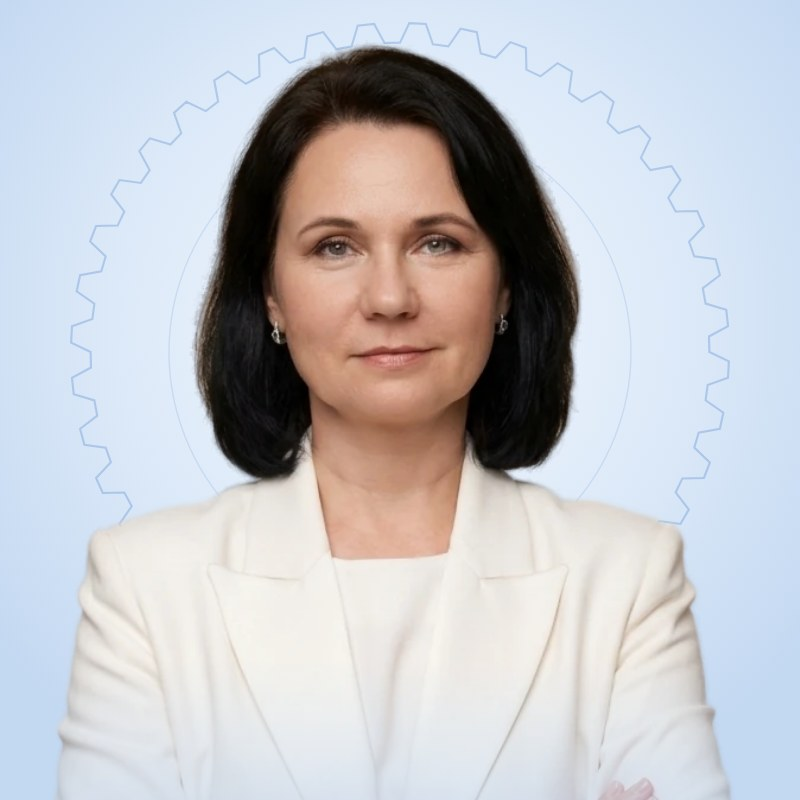
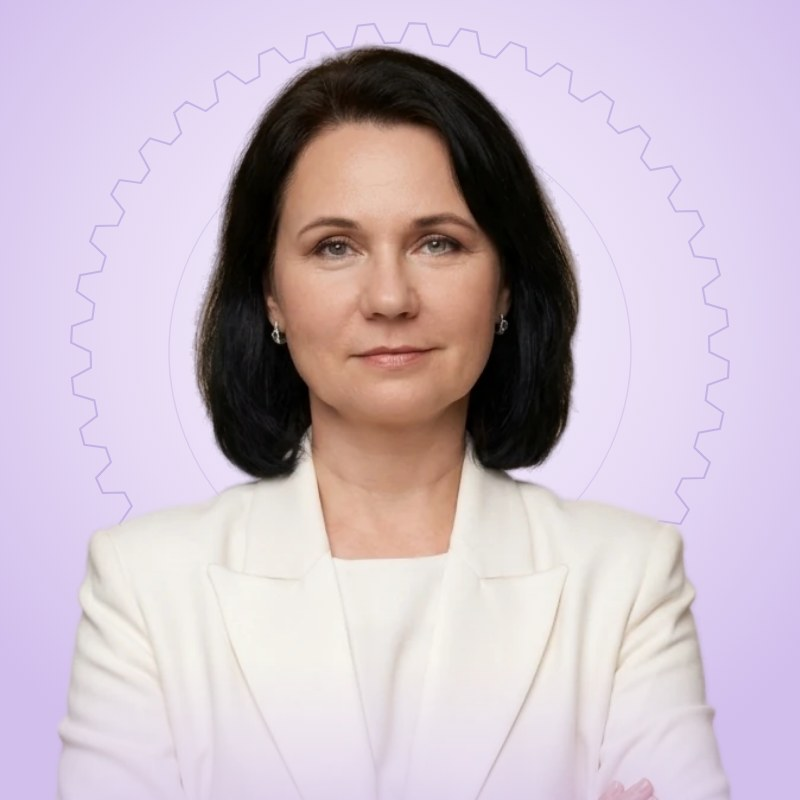
Сиреневая палитра: светло-сиреневые и тёмно-фиолетовые блоки через один
Claude-Session: https://claude.ai/code/session_01Lchu9cGtAJntDfj8Msrm4J

diff --git a/index.html b/index.html
@@ -33,15 +33,15 @@
 @font-face{font-family:"Playfair";src:url(playfair-500i.woff2) format("woff2");font-weight:500;font-style:italic;font-display:swap}
 
 :root{
-  --paper:#F5F8FC;--mist:#E8F0F9;--sky:#D6E5F5;--ice:#BFD6EF;--line:#CBD9EA;
-  --ink:#0E1E34;--ink-2:#2E4565;--ink-3:#5C7494;
-  --cobalt:#2559A0;--cobalt-2:#3A75C4;--cobalt-deep:#173F78;--glow:#7FB0EA;
-  --night:#0C1A2E;--night-2:#13253F;--night-line:#24395A;--on-night:#E6EEF8;--on-night-2:#A9BFDB;
+  --paper:#F3EEFA;--mist:#E9DFF5;--sky:#DCCDEF;--ice:#C8B3E5;--line:#D8CBEB;
+  --ink:#1F1435;--ink-2:#40315F;--ink-3:#6F608E;
+  --cobalt:#5E3EA3;--cobalt-2:#7B5BC3;--cobalt-deep:#3F2675;--glow:#C4ABF0;
+  --night:#24163F;--night-2:#301F52;--night-line:#46356F;--on-night:#F2EBFB;--on-night-2:#BCAADB;
   --warm:#C98A4B;
   --sans:"Onest",system-ui,-apple-system,"Segoe UI",sans-serif;
   --accent:"Playfair",Georgia,serif;
   --ease:cubic-bezier(.23,1,.32,1);
-  --shadow:0 30px 60px -30px rgba(14,30,52,.35);
+  --shadow:0 30px 60px -30px rgba(36,22,63,.35);
   --wrap:1240px;
 }
 *{box-sizing:border-box}
@@ -69,7 +69,7 @@ section{position:relative}
 .line-mask>span{display:inline-block}
 
 /* buttons */
-.btn{--bx:0px;--by:0px;position:relative;display:inline-flex;align-items:center;gap:14px;height:62px;padding:0 30px;border-radius:999px;background:var(--cobalt);color:#fff;font:600 17px/1 var(--sans);letter-spacing:-.005em;text-decoration:none;border:0;cursor:pointer;overflow:hidden;isolation:isolate;transform:translate(var(--bx),var(--by));transition:transform .45s var(--ease),box-shadow .3s var(--ease);box-shadow:0 18px 34px -16px rgba(37,89,160,.8)}
+.btn{--bx:0px;--by:0px;position:relative;display:inline-flex;align-items:center;gap:14px;height:62px;padding:0 30px;border-radius:999px;background:var(--cobalt);color:#fff;font:600 17px/1 var(--sans);letter-spacing:-.005em;text-decoration:none;border:0;cursor:pointer;overflow:hidden;isolation:isolate;transform:translate(var(--bx),var(--by));transition:transform .45s var(--ease),box-shadow .3s var(--ease);box-shadow:0 18px 34px -16px rgba(87,34,163,.8)}
 .btn::before{content:"";position:absolute;inset:0;background:var(--cobalt-deep);border-radius:inherit;transform:scaleX(0);transform-origin:left;transition:transform .5s var(--ease);z-index:-1}
 .btn:hover{color:#fff}
 .btn:active{transform:translate(var(--bx),var(--by)) scale(.97)}
@@ -89,7 +89,7 @@ section{position:relative}
 
 /* header */
 header.top{position:fixed;inset:0 0 auto 0;z-index:40;transition:transform .5s var(--ease),background .3s,box-shadow .3s}
-header.top.solid{background:rgba(245,248,252,.82);backdrop-filter:blur(16px) saturate(1.5);-webkit-backdrop-filter:blur(16px) saturate(1.5);box-shadow:0 1px 0 var(--line)}
+header.top.solid{background:rgba(248,245,252,.82);backdrop-filter:blur(16px) saturate(1.5);-webkit-backdrop-filter:blur(16px) saturate(1.5);box-shadow:0 1px 0 var(--line)}
 header.top.hide{transform:translateY(-100%)}
 .top .wrap{display:flex;align-items:center;justify-content:space-between;height:80px}
 .brand{white-space:nowrap;display:flex;align-items:center;gap:12px;font-weight:700;font-size:19px;letter-spacing:-.02em;color:var(--ink);text-decoration:none}
@@ -112,8 +112,8 @@ nav.menu a.btn,nav.menu a.btn:hover{color:#fff}
 
 /* HERO */
 .hero{min-height:100svh;padding:120px 0 0;overflow:hidden;background:
-  radial-gradient(1200px 700px at 78% 40%,#D3E4F7 0%,rgba(211,228,247,0) 60%),
-  radial-gradient(800px 600px at 10% 90%,#E3EDF9 0%,rgba(227,237,249,0) 70%),var(--paper)}
+  radial-gradient(1200px 700px at 78% 40%,#E0D2F8 0%,rgba(224,210,248,0) 60%),
+  radial-gradient(800px 600px at 10% 90%,#EBE2FA 0%,rgba(235,226,250,0) 70%),var(--paper)}
 .hero .wrap{display:grid;grid-template-columns:1.18fr .82fr;gap:24px;align-items:end;min-height:calc(100svh - 120px)}
 .hero-copy{padding-bottom:110px;position:relative;z-index:3}
 .hero h1{font-size:clamp(44px,5.7vw,94px);margin-bottom:30px}
@@ -121,15 +121,15 @@ nav.menu a.btn,nav.menu a.btn:hover{color:#fff}
 .hero .lead{margin-bottom:40px}
 .cta-row{display:flex;flex-wrap:wrap;gap:18px 26px;align-items:center}
 .creds{margin-top:48px;display:flex;flex-wrap:wrap;gap:10px}
-.chip{display:inline-flex;align-items:center;gap:10px;padding:10px 16px;border-radius:999px;background:rgba(255,255,255,.7);border:1px solid rgba(203,217,234,.9);font-size:15px;color:var(--ink-2);backdrop-filter:blur(8px);-webkit-backdrop-filter:blur(8px)}
+.chip{display:inline-flex;align-items:center;gap:10px;padding:10px 16px;border-radius:999px;background:rgba(255,255,255,.7);border:1px solid rgba(215,202,235,.9);font-size:15px;color:var(--ink-2);backdrop-filter:blur(8px);-webkit-backdrop-filter:blur(8px)}
 .chip b{color:var(--ink);font-weight:700}
 .visual{position:relative;height:100%;min-height:640px;align-self:stretch}
-.disc{position:absolute;left:50%;bottom:-18%;width:min(640px,110%);aspect-ratio:1;transform:translateX(-50%);border-radius:50%;background:radial-gradient(circle at 40% 35%,#FFFFFF 0%,#E2EDF9 45%,#C7DBF1 100%);box-shadow:inset 0 -30px 80px rgba(37,89,160,.15)}
+.disc{position:absolute;left:50%;bottom:-18%;width:min(640px,110%);aspect-ratio:1;transform:translateX(-50%);border-radius:50%;background:radial-gradient(circle at 40% 35%,#FFFFFF 0%,#EAE1FA 45%,#D6C6F2 100%);box-shadow:inset 0 -30px 80px rgba(87,34,163,.15)}
 .big-gear{position:absolute;left:50%;bottom:-36%;width:min(980px,170%);transform:translateX(-50%);opacity:.9;pointer-events:none}
 .big-gear .g{fill:none;stroke:var(--cobalt-2);stroke-width:1.2;opacity:.55;vector-effect:non-scaling-stroke}
-.portrait{position:absolute;left:50%;bottom:0;height:min(96%,820px);transform:translateX(-50%);z-index:2;filter:drop-shadow(0 30px 40px rgba(14,30,52,.18))}
+.portrait{position:absolute;left:50%;bottom:0;height:min(96%,820px);transform:translateX(-50%);z-index:2;filter:drop-shadow(0 30px 40px rgba(29,13,53,.18))}
 .portrait img{height:100%;width:auto;max-width:none}
-.orbit{position:absolute;z-index:3;display:flex;align-items:center;gap:10px;padding:12px 18px 12px 12px;border-radius:999px;background:rgba(255,255,255,.82);box-shadow:0 18px 40px -20px rgba(14,30,52,.4);font-weight:600;font-size:15px;color:var(--ink);backdrop-filter:blur(10px);-webkit-backdrop-filter:blur(10px);white-space:nowrap}
+.orbit{position:absolute;z-index:3;display:flex;align-items:center;gap:10px;padding:12px 18px 12px 12px;border-radius:999px;background:rgba(255,255,255,.82);box-shadow:0 18px 40px -20px rgba(29,13,53,.4);font-weight:600;font-size:15px;color:var(--ink);backdrop-filter:blur(10px);-webkit-backdrop-filter:blur(10px);white-space:nowrap}
 .orbit svg{width:26px;height:26px;color:var(--cobalt)}
 .orbit.o1{left:-2%;top:24%}.orbit.o2{right:-4%;top:14%}.orbit.o3{right:-2%;top:52%}.orbit.o4{left:2%;top:62%}
 .orbit.o4{background:var(--ink);color:#fff}.orbit.o4 svg{color:var(--warm)}
@@ -165,17 +165,17 @@ nav.menu a.btn,nav.menu a.btn:hover{color:#fff}
 .mech-top .lead{color:var(--on-night-2)}
 .train{margin-top:60px;position:relative}
 .train svg{width:100%;height:auto;overflow:visible}
-.gear-shape{fill:url(#gmBlue);stroke:#8FBDF0;stroke-opacity:.55;stroke-width:1.3;vector-effect:non-scaling-stroke;stroke-linejoin:round}
-.gear-rim{fill:none;stroke:#05101F;stroke-opacity:.55;stroke-width:3;vector-effect:non-scaling-stroke}
-.gear-rim2{fill:none;stroke:#BFD8F5;stroke-opacity:.14;stroke-width:1.5;vector-effect:non-scaling-stroke}
-.gear-hole{fill:url(#gmHole);stroke:#8FBDF0;stroke-opacity:.28;stroke-width:1;vector-effect:non-scaling-stroke}
-.gear-hub{fill:url(#gmHub);stroke:#BFD8F5;stroke-opacity:.5;stroke-width:1.2;vector-effect:non-scaling-stroke}
-.gear-bore{fill:#06101E;stroke:#000;stroke-opacity:.4;stroke-width:1;vector-effect:non-scaling-stroke}
-.gear-bolt{fill:#C9DDF5;fill-opacity:.75}
+.gear-shape{fill:url(#gmBlue);stroke:#B18DF2;stroke-opacity:.55;stroke-width:1.3;vector-effect:non-scaling-stroke;stroke-linejoin:round}
+.gear-rim{fill:none;stroke:#100420;stroke-opacity:.55;stroke-width:3;vector-effect:non-scaling-stroke}
+.gear-rim2{fill:none;stroke:#D3BEF6;stroke-opacity:.14;stroke-width:1.5;vector-effect:non-scaling-stroke}
+.gear-hole{fill:url(#gmHole);stroke:#B18DF2;stroke-opacity:.28;stroke-width:1;vector-effect:non-scaling-stroke}
+.gear-hub{fill:url(#gmHub);stroke:#D3BEF6;stroke-opacity:.5;stroke-width:1.2;vector-effect:non-scaling-stroke}
+.gear-bore{fill:#10051F;stroke:#000;stroke-opacity:.4;stroke-width:1;vector-effect:non-scaling-stroke}
+.gear-bolt{fill:#D9C8F6;fill-opacity:.75}
 .gear-light{fill:url(#gmLight);pointer-events:none}
 .gear-glint{fill:none;stroke:#fff;stroke-opacity:.22;stroke-width:3.5;stroke-linecap:round;vector-effect:non-scaling-stroke;pointer-events:none}
 .gear-shadow{fill:url(#gmShadow);pointer-events:none}
-.gear-side{fill:url(#gmSide);stroke:#020812;stroke-opacity:.6;stroke-width:1;vector-effect:non-scaling-stroke;stroke-linejoin:round}
+.gear-side{fill:url(#gmSide);stroke:#090212;stroke-opacity:.6;stroke-width:1;vector-effect:non-scaling-stroke;stroke-linejoin:round}
 .gear.stopped .gear-side{fill:url(#gmSideDim)}
 .gear.stuck .gear-side{fill:url(#gmSideWarm)}
 .gear{cursor:pointer;outline:none}
@@ -188,7 +188,7 @@ nav.menu a.btn,nav.menu a.btn:hover{color:#fff}
 .gear.stuck .gear-hub{fill:url(#gmHubWarm)}
 .gear.stuck .gear-hole{stroke:#F0C79A}
 .glabel{font:600 21px var(--sans);fill:var(--on-night);text-anchor:middle;pointer-events:none;letter-spacing:-.01em}
-.glabel.dim{fill:#7F96B6}
+.glabel.dim{fill:#967EB7}
 .glabel.warm{fill:#F0C79A}
 .gtag{fill:var(--night);stroke:var(--night-line)}
 .mech-panel{margin-top:48px;display:grid;grid-template-columns:1.2fr .8fr;gap:40px;align-items:start;border-top:1px solid var(--night-line);padding-top:40px}
@@ -213,14 +213,14 @@ nav.menu a.btn,nav.menu a.btn:hover{color:#fff}
 .scard .num{font-size:140px;font-weight:800;letter-spacing:-.06em;line-height:.8;color:var(--sky)}
 .scard h3{font-size:36px;margin:22px 0 14px}
 .scard p{color:var(--ink-2);font-size:18px;margin:0}
-.scard.dark{background:var(--cobalt);color:#fff}.scard.dark .num{color:rgba(255,255,255,.22)}.scard.dark p{color:#DCE8F7}
+.scard.dark{background:var(--cobalt);color:#fff}.scard.dark .num{color:rgba(255,255,255,.22)}.scard.dark p{color:#E6DBF8}
 .hprogress{position:absolute;left:max(40px,calc((100vw - var(--wrap))/2 + 40px));right:40px;bottom:80px;height:2px;background:var(--line);border-radius:2px;overflow:hidden}
 .hprogress i{position:absolute;inset:0;background:var(--cobalt);transform-origin:left;transform:scaleX(0)}
 
 /* cinema */
 .cinema{background:linear-gradient(180deg,var(--paper),var(--mist));padding:150px 0}
 .cinema-head{display:grid;grid-template-columns:1fr 1fr;gap:48px;align-items:end}
-.screen{margin-top:56px;border-radius:28px;overflow:hidden;background:var(--sky);box-shadow:0 50px 90px -40px rgba(14,30,52,.5);aspect-ratio:16/9;position:relative}
+.screen{margin-top:56px;border-radius:28px;overflow:hidden;background:var(--sky);box-shadow:0 50px 90px -40px rgba(29,13,53,.5);aspect-ratio:16/9;position:relative}
 .screen video{width:100%;height:100%;object-fit:cover;background:var(--sky)}
 .thumbs{margin-top:22px;display:grid;grid-template-columns:repeat(4,1fr);gap:18px}
 .thumb{all:unset;cursor:pointer;display:flex;flex-direction:column;gap:10px;border-radius:18px;padding:8px;transition:background .3s var(--ease),transform .4s var(--ease)}
@@ -230,7 +230,7 @@ nav.menu a.btn,nav.menu a.btn:hover{color:#fff}
 .thumb .ti{display:flex;gap:10px;font-size:15px;line-height:1.35;font-weight:600;color:var(--ink);padding:0 4px}
 .thumb .ti span{color:var(--cobalt);font-variant-numeric:tabular-nums}
 .thumb .ti em{margin-left:auto;font-style:normal;font-weight:500;color:var(--ink-3);font-variant-numeric:tabular-nums}
-.thumb[aria-current="true"]{background:#fff;box-shadow:0 20px 40px -26px rgba(14,30,52,.45)}
+.thumb[aria-current="true"]{background:#fff;box-shadow:0 20px 40px -26px rgba(29,13,53,.45)}
 @media (hover:hover){.thumb:hover{transform:translateY(-4px)}.thumb:hover img{transform:scale(1.05)}.thumb:hover video{opacity:1}}
 .thumb:focus-visible{outline:2px solid var(--cobalt-2)}
 
@@ -274,11 +274,11 @@ nav.menu a.btn,nav.menu a.btn:hover{color:#fff}
 .about .wrap{position:relative;display:grid;grid-template-columns:.9fr 1.1fr;gap:56px;align-items:end}
 .about-vis{position:relative;height:720px}
 .about-vis .disc{bottom:-30%;width:120%}
-.about-vis img{position:absolute;left:50%;bottom:0;height:96%;width:auto;max-width:none;transform:translateX(-50%);filter:drop-shadow(0 30px 40px rgba(14,30,52,.18))}
+.about-vis img{position:absolute;left:50%;bottom:0;height:96%;width:auto;max-width:none;transform:translateX(-50%);filter:drop-shadow(0 30px 40px rgba(29,13,53,.18))}
 .about-copy{padding-bottom:110px}
 .about-copy p{color:var(--ink-2);max-width:56ch}
 .facts{display:grid;grid-template-columns:repeat(2,1fr);gap:14px;margin:30px 0}
-.fact{background:#fff;border-radius:18px;padding:18px 20px;font-size:16px;line-height:1.4;color:var(--ink-2);box-shadow:0 14px 30px -24px rgba(14,30,52,.5)}
+.fact{background:#fff;border-radius:18px;padding:18px 20px;font-size:16px;line-height:1.4;color:var(--ink-2);box-shadow:0 14px 30px -24px rgba(29,13,53,.5)}
 .fact b{display:block;color:var(--ink);font-size:18px;margin-bottom:2px}
 blockquote{margin:30px 0 0;font-family:var(--accent);font-style:italic;font-size:clamp(28px,2.8vw,40px);line-height:1.2;color:var(--cobalt)}
 blockquote cite{display:block;margin-top:10px;font:500 15px var(--sans);font-style:normal;color:var(--ink-3)}
@@ -322,7 +322,7 @@ blockquote cite{display:block;margin-top:10px;font:500 15px var(--sans);font-sty
 .contacts .k{display:block;font-size:13px;color:var(--on-night-2);margin-bottom:2px}
 .final-gear{position:absolute;right:-180px;top:-140px;width:640px;opacity:.18;pointer-events:none}
 .final-gear .g{fill:none;stroke:var(--glow);stroke-width:1.4;vector-effect:non-scaling-stroke}
-footer{position:relative;z-index:2;margin-top:110px;padding-top:28px;border-top:1px solid var(--night-line);display:flex;justify-content:space-between;flex-wrap:wrap;gap:12px;font-size:13px;color:#8DA4C2}
+footer{position:relative;z-index:2;margin-top:110px;padding-top:28px;border-top:1px solid var(--night-line);display:flex;justify-content:space-between;flex-wrap:wrap;gap:12px;font-size:13px;color:#A28CC3}
 
 
 /* team outsourcing */
@@ -340,7 +340,7 @@ footer{position:relative;z-index:2;margin-top:110px;padding-top:28px;border-top:
 .org svg.links{position:absolute;inset:0;width:100%;height:100%;overflow:visible}
 .org svg.links line{stroke:var(--ice);stroke-width:2;stroke-dasharray:6 7}
 .org svg.links line.on{stroke:var(--cobalt);stroke-dasharray:none}
-.core{position:absolute;left:50%;top:50%;width:30%;aspect-ratio:1;transform:translate(-50%,-50%);border-radius:50%;background:radial-gradient(circle at 35% 30%,#1D3A63,var(--night) 70%);color:#fff;display:flex;flex-direction:column;justify-content:center;align-items:center;z-index:1;text-align:center;font-weight:700;font-size:clamp(15px,1.4vw,19px);line-height:1.25;box-shadow:0 30px 60px -30px rgba(14,30,52,.6);padding:12px}
+.core{position:absolute;left:50%;top:50%;width:30%;aspect-ratio:1;transform:translate(-50%,-50%);border-radius:50%;background:radial-gradient(circle at 35% 30%,#3A1B65,var(--night) 70%);color:#fff;display:flex;flex-direction:column;justify-content:center;align-items:center;z-index:1;text-align:center;font-weight:700;font-size:clamp(15px,1.4vw,19px);line-height:1.25;box-shadow:0 30px 60px -30px rgba(29,13,53,.6);padding:12px}
 .core small{display:block;font-weight:500;color:var(--on-night-2);font-size:max(.72em,13px);line-height:1.3;margin-top:6px;max-width:82%}
 .seat{position:absolute;width:35%;z-index:2;transform:translate(-50%,-50%);background:rgba(255,255,255,.55);border:1.5px dashed var(--ice);border-radius:20px;padding:14px 14px 14px 12px;display:flex;gap:12px;align-items:center;transition:background .6s var(--ease),border-color .6s var(--ease),box-shadow .6s var(--ease)}
 .seat .av{flex:none;width:46px;height:46px;border-radius:50%;background:var(--mist) center/cover;border:2px dashed var(--ice);transition:border-color .6s,transform .7s var(--ease)}
@@ -348,7 +348,7 @@ footer{position:relative;z-index:2;margin-top:110px;padding-top:28px;border-top:
 .seat b{display:block;font-size:15px;letter-spacing:-.01em;line-height:1.2;color:var(--ink)}
 .seat span{display:block;font-size:13px;line-height:1.35;color:var(--ink-3);margin-top:2px}
 .seat .who{color:var(--cobalt);font-weight:600;opacity:0;transition:opacity .5s .2s}
-.seat.filled{background:#fff;border:1.5px solid transparent;box-shadow:0 20px 40px -24px rgba(14,30,52,.45)}
+.seat.filled{background:#fff;border:1.5px solid transparent;box-shadow:0 20px 40px -24px rgba(29,13,53,.45)}
 .seat.filled .av{border:2px solid var(--cobalt)}
 .seat.filled .av img{opacity:1;transform:none}
 .seat.filled .who{opacity:1}
@@ -360,18 +360,18 @@ footer{position:relative;z-index:2;margin-top:110px;padding-top:28px;border-top:
 .aud-head{display:grid;grid-template-columns:1fr 1fr;gap:48px;align-items:end}
 .panels{margin-top:60px;display:flex;gap:18px;height:540px}
 .pan{position:relative;flex:1;min-width:0;border-radius:28px;overflow:hidden;padding:36px;display:flex;flex-direction:column;justify-content:flex-end;color:#fff;cursor:default;transition:flex-grow .8s var(--ease)}
-.pan:nth-child(1){background:linear-gradient(160deg,#3A75C4,#173F78)}
-.pan:nth-child(2){background:linear-gradient(160deg,#21406B,#0C1A2E)}
-.pan:nth-child(3){background:linear-gradient(160deg,#5B8FD0,#2559A0)}
+.pan:nth-child(1){background:linear-gradient(160deg,#7137C7,#3F157A)}
+.pan:nth-child(2){background:linear-gradient(160deg,#3F1F6D,#1A0B2F)}
+.pan:nth-child(3){background:linear-gradient(160deg,#8858D3,#5722A3)}
 @media (hover:hover){.panels:hover .pan{flex-grow:.8}.panels .pan:hover{flex-grow:1.9}}
 .pan .bg-gear{position:absolute;right:-90px;top:-90px;width:320px;opacity:.18;transition:transform 1.4s var(--ease)}
 .pan .bg-gear path{fill:none;stroke:#fff;stroke-width:2}
 @media (hover:hover){.pan:hover .bg-gear{transform:rotate(60deg)}}
 .pan .tag{position:relative;align-self:flex-start;margin-bottom:auto;font-size:14px;font-weight:600;padding:7px 12px;border-radius:999px;background:rgba(255,255,255,.16)}
 .pan h3{font-size:clamp(28px,2.6vw,38px);color:#fff;margin-bottom:12px}
-.pan .who{font-size:16px;color:#DCE8F7;margin-bottom:14px;font-weight:600}
+.pan .who{font-size:16px;color:#E6DBF8;margin-bottom:14px;font-weight:600}
 .pan h3{margin-top:28px}
-.pan p{font-size:16px;line-height:1.5;color:#DCE8F7;margin:0;max-width:46ch}
+.pan p{font-size:16px;line-height:1.5;color:#E6DBF8;margin:0;max-width:46ch}
 .pan .ex{font-variant-numeric:lining-nums;margin-top:16px;font-family:var(--accent);font-style:italic;font-size:19px;color:#fff;opacity:.92}
 @media (max-width:1240px){.team .wrap{grid-template-columns:1fr}.org{max-width:600px}}
 @media (max-width:1020px){
@@ -396,12 +396,12 @@ footer{position:relative;z-index:2;margin-top:110px;padding-top:28px;border-top:
 .gl{margin:40px 0 0;padding:0;list-style:none;counter-reset:g}
 .gl li{display:grid;grid-template-columns:56px 1fr;gap:18px;padding:22px 0;border-top:1px solid var(--line)}
 .gl li:last-child{border-bottom:1px solid var(--line)}
-.gl .n{align-self:start;flex:none;width:46px;height:46px;min-width:46px;padding:0;gap:0;border:0;grid-template-columns:none;line-height:1;border-radius:50%;box-shadow:0 10px 22px -12px rgba(37,89,160,.7);background:var(--cobalt);color:#fff;display:grid;place-items:center;font-weight:800;font-size:18px}
+.gl .n{align-self:start;flex:none;width:46px;height:46px;min-width:46px;padding:0;gap:0;border:0;grid-template-columns:none;line-height:1;border-radius:50%;box-shadow:0 10px 22px -12px rgba(87,34,163,.7);background:var(--cobalt);color:#fff;display:grid;place-items:center;font-weight:800;font-size:18px}
 .gl b{display:block;font-size:21px;letter-spacing:-.015em;margin-bottom:4px}
 .gl span{color:var(--ink-2);font-size:17px;line-height:1.5}
 .notfor{margin-top:26px;font-size:16px;color:var(--ink-3)}
 .notfor b{color:var(--ink-2)}
-.mapdoc{position:relative;background:#fff;border-radius:24px;padding:36px 36px 30px;box-shadow:0 50px 90px -40px rgba(14,30,52,.45);transform:rotate(-1.6deg)}
+.mapdoc{position:relative;background:#fff;border-radius:24px;padding:36px 36px 30px;box-shadow:0 50px 90px -40px rgba(29,13,53,.45);transform:rotate(-1.6deg)}
 .mapdoc .hd{display:flex;justify-content:space-between;align-items:flex-start;gap:16px;padding-bottom:18px;border-bottom:1px solid var(--line)}
 .mapdoc .hd b{font-size:24px;letter-spacing:-.02em}
 .mapdoc .hd small{display:block;font-size:14px;color:var(--ink-3);margin-top:2px}
@@ -422,18 +422,18 @@ footer{position:relative;z-index:2;margin-top:110px;padding-top:28px;border-top:
 .sig{margin-top:18px;display:flex;justify-content:space-between;align-items:center;font-size:14px;color:var(--ink-3);padding-right:150px;min-height:56px}
 .mapdoc{margin-bottom:40px}
 .sig i{font-family:var(--accent);font-size:22px;color:var(--ink)}
-.stamp{position:absolute;right:10px;bottom:-54px;width:176px;height:176px;z-index:6;pointer-events:none;color:#1F4F96;mix-blend-mode:multiply;opacity:0;transform:rotate(-10deg)}
+.stamp{position:absolute;right:10px;bottom:-54px;width:176px;height:176px;z-index:6;pointer-events:none;color:#521C99;mix-blend-mode:multiply;opacity:0;transform:rotate(-10deg)}
 .stamp svg{display:block;width:100%;height:100%;overflow:visible}
-.stamp .burst{position:absolute;inset:-6%;border-radius:50%;border:3px solid #2559A0;opacity:0;pointer-events:none}
-.stamp .drop{position:absolute;left:50%;top:50%;width:7px;height:7px;margin:-3.5px;border-radius:50%;background:#2559A0;opacity:0}
-.mapdoc.hit{box-shadow:0 30px 60px -36px rgba(14,30,52,.6)}
+.stamp .burst{position:absolute;inset:-6%;border-radius:50%;border:3px solid #5722A3;opacity:0;pointer-events:none}
+.stamp .drop{position:absolute;left:50%;top:50%;width:7px;height:7px;margin:-3.5px;border-radius:50%;background:#5722A3;opacity:0}
+.mapdoc.hit{box-shadow:0 30px 60px -36px rgba(29,13,53,.6)}
 .anim .gapbox,.anim .stepbox{opacity:0;transform:translateY(16px)}
 @media (max-width:1020px){.get .wrap{grid-template-columns:1fr}.mapdoc{transform:none}}
 @media (max-width:560px){.mapdoc{padding:26px 20px}.stamp{width:132px;height:132px;right:0;bottom:-46px}.sig{padding-right:104px;flex-direction:column;align-items:flex-start;gap:2px}.rows li{font-size:15px}}
 
 
 /* sound overlay */
-.play-ov{position:absolute;left:50%;top:50%;transform:translate(-50%,-50%);display:flex;align-items:center;gap:18px;padding:16px 26px 16px 18px;border:0;border-radius:999px;background:rgba(255,255,255,.88);backdrop-filter:blur(14px);-webkit-backdrop-filter:blur(14px);box-shadow:0 24px 50px -24px rgba(14,30,52,.55);cursor:pointer;font-family:var(--sans);color:var(--ink);text-align:left;transition:opacity .4s var(--ease),transform .5s var(--ease)}
+.play-ov{position:absolute;left:50%;top:50%;transform:translate(-50%,-50%);display:flex;align-items:center;gap:18px;padding:16px 26px 16px 18px;border:0;border-radius:999px;background:rgba(255,255,255,.88);backdrop-filter:blur(14px);-webkit-backdrop-filter:blur(14px);box-shadow:0 24px 50px -24px rgba(29,13,53,.55);cursor:pointer;font-family:var(--sans);color:var(--ink);text-align:left;transition:opacity .4s var(--ease),transform .5s var(--ease)}
 .play-ov .pl{width:54px;height:54px;border-radius:50%;background:var(--cobalt);display:grid;place-items:center;flex:none;transition:transform .4s var(--ease)}
 .play-ov .pl svg{width:22px;height:22px;margin-left:3px}
 @media (hover:hover){.play-ov:hover .pl{transform:scale(1.08)}}
@@ -519,6 +519,20 @@ footer{position:relative;z-index:2;margin-top:110px;padding-top:28px;border-top:
   .thumb .tv{aspect-ratio:9/16;border-radius:12px}
   .thumb .ti{font-size:13px}
 }
+
+/* dark lilac sections */
+.dk{background:var(--night);color:var(--on-night);--ink:#F6F0FD;--ink-2:#D5C7EC;--ink-3:#A996CB;--line:var(--night-line);--ice:#5A4687;--sky:#3B2A62}
+.team.dk{background:var(--night)}
+.dk h2,.dk h3{color:#fff}
+.dk .it,.dk .pain .q,.dk .why svg,.dk .r .big{color:var(--glow)}
+.dk .r .big small{color:#fff}
+.dk .seat{--ink:#1F1435;--ink-2:#40315F;--ink-3:#6F608E;background:rgba(255,255,255,.08);border-color:#5A4687}
+.dk .seat b{color:#fff}.dk .seat span{color:var(--on-night-2)}
+.dk .seat.on,.dk .seat.filled{background:#fff}
+.dk .seat.on b,.dk .seat.filled b{color:#1F1435}.dk .seat.on span,.dk .seat.filled span{color:#40315F}
+.dk .seat .who{color:var(--glow)}.dk .seat.on .who,.dk .seat.filled .who{color:var(--cobalt)}
+.dk .core{background:radial-gradient(circle at 35% 30%,#8E6FD6,#5E3EA3 72%);box-shadow:0 30px 60px -24px rgba(0,0,0,.55)}
+.dk .org svg.links line.on{stroke:var(--glow)}
 </style>
 </head>
 <body class="no-js">
@@ -572,7 +586,7 @@ footer{position:relative;z-index:2;margin-top:110px;padding-top:28px;border-top:
     </div>
     <div class="visual" id="visual">
       <div class="disc" id="heroDisc"></div>
-      <svg class="big-gear" id="heroGear" viewBox="0 0 1000 1000" aria-hidden="true"><path class="g" id="hgPath"/><circle cx="500" cy="500" r="120" fill="none" stroke="#3A75C4" stroke-opacity=".35"/></svg>
+      <svg class="big-gear" id="heroGear" viewBox="0 0 1000 1000" aria-hidden="true"><path class="g" id="hgPath"/><circle cx="500" cy="500" r="120" fill="none" stroke="#7137C7" stroke-opacity=".35"/></svg>
       <div class="portrait" id="portrait"><img src="cut_hero.webp" alt="Наталья Исакова в светлом костюме" width="610" height="1130" fetchpriority="high"></div>
       <div class="orbit o1" data-depth="18"><svg viewBox="0 0 24 24" fill="none" stroke="currentColor" stroke-width="1.6" aria-hidden="true"><rect x="4" y="4" width="16" height="16" rx="4"/><path d="M4 10h16"/></svg>Продукт</div>
       <div class="orbit o2" data-depth="-24"><svg viewBox="0 0 24 24" fill="none" stroke="currentColor" stroke-width="1.6" aria-hidden="true"><circle cx="12" cy="12" r="8"/><path d="M12 7v5l3 2"/></svg>Время</div>
@@ -587,7 +601,7 @@ footer{position:relative;z-index:2;margin-top:110px;padding-top:28px;border-top:
 <div class="marquee" aria-hidden="true"><div class="mq-track" id="mq"></div></div>
 
 <!-- PAINS -->
-<section class="pains" aria-labelledby="h-pains">
+<section class="pains dk" aria-labelledby="h-pains">
   <div class="wrap">
     <div class="side">
       <h2 id="h-pains" class="reveal">Ко&nbsp;мне приходят, когда звучит <span class="it">это</span></h2>
@@ -725,7 +739,7 @@ footer{position:relative;z-index:2;margin-top:110px;padding-top:28px;border-top:
 
 
 <!-- TEAM -->
-<section class="team" id="team" aria-labelledby="h-team">
+<section class="team dk" id="team" aria-labelledby="h-team">
   <div class="wrap">
     <div>
       <h2 id="h-team" class="reveal">Как будто в&nbsp;команде появились <span class="it">недостающие роли</span></h2>
@@ -763,7 +777,7 @@ footer{position:relative;z-index:2;margin-top:110px;padding-top:28px;border-top:
 </section>
 
 <!-- RESULTS -->
-<section class="results" aria-labelledby="h-res">
+<section class="results dk" aria-labelledby="h-res">
   <div class="wrap">
     <h2 id="h-res" class="reveal">Что менялось <span class="it">в&nbsp;проектах</span></h2>
     <div class="rgrid">
@@ -945,16 +959,16 @@ document.querySelectorAll('[data-words]').forEach(p=>{
 /* ---------- gear train ---------- */
 const train=document.getElementById('trainSvg');
 train.innerHTML=`<defs>
-<radialGradient id="gmBlue" cx=".5" cy=".5" r=".5"><stop offset="0" stop-color="#132A4A"/><stop offset=".55" stop-color="#1D3E6A"/><stop offset=".8" stop-color="#2F5F98"/><stop offset=".93" stop-color="#4B84C6"/><stop offset="1" stop-color="#7FB0EA"/></radialGradient>
-<radialGradient id="gmBlueHi" cx=".5" cy=".5" r=".5"><stop offset="0" stop-color="#1A3A63"/><stop offset=".55" stop-color="#27518A"/><stop offset=".8" stop-color="#3D74B8"/><stop offset=".93" stop-color="#6A9FDE"/><stop offset="1" stop-color="#B7D5F7"/></radialGradient>
-<radialGradient id="gmDim" cx=".5" cy=".5" r=".5"><stop offset="0" stop-color="#0E1C31"/><stop offset=".6" stop-color="#15263F"/><stop offset=".85" stop-color="#22385A"/><stop offset="1" stop-color="#3E5A80"/></radialGradient>
+<radialGradient id="gmBlue" cx=".5" cy=".5" r=".5"><stop offset="0" stop-color="#2A124B"/><stop offset=".55" stop-color="#3C1B6C"/><stop offset=".8" stop-color="#562C9B"/><stop offset=".93" stop-color="#7848C9"/><stop offset="1" stop-color="#A67CED"/></radialGradient>
+<radialGradient id="gmBlueHi" cx=".5" cy=".5" r=".5"><stop offset="0" stop-color="#361865"/><stop offset=".55" stop-color="#4F258C"/><stop offset=".8" stop-color="#6C3ABB"/><stop offset=".93" stop-color="#9567E1"/><stop offset="1" stop-color="#CEB5F9"/></radialGradient>
+<radialGradient id="gmDim" cx=".5" cy=".5" r=".5"><stop offset="0" stop-color="#1D0D32"/><stop offset=".6" stop-color="#271440"/><stop offset=".85" stop-color="#3A215B"/><stop offset="1" stop-color="#593C82"/></radialGradient>
 <radialGradient id="gmWarm" cx=".5" cy=".5" r=".5"><stop offset="0" stop-color="#2A1D10"/><stop offset=".55" stop-color="#4A321A"/><stop offset=".8" stop-color="#8A5A28"/><stop offset=".93" stop-color="#C98A4B"/><stop offset="1" stop-color="#F0C79A"/></radialGradient>
-<radialGradient id="gmHole" cx=".5" cy=".38" r=".62"><stop offset="0" stop-color="#030912"/><stop offset=".8" stop-color="#0A1729"/><stop offset="1" stop-color="#1B3354"/></radialGradient>
-<radialGradient id="gmHub" cx=".38" cy=".32" r=".75"><stop offset="0" stop-color="#E3EEFB"/><stop offset=".35" stop-color="#8FB4DE"/><stop offset=".75" stop-color="#3A659A"/><stop offset="1" stop-color="#1A3557"/></radialGradient>
-<radialGradient id="gmHubDim" cx=".38" cy=".32" r=".75"><stop offset="0" stop-color="#8A9DB7"/><stop offset=".5" stop-color="#4A6286"/><stop offset="1" stop-color="#16263D"/></radialGradient>
+<radialGradient id="gmHole" cx=".5" cy=".38" r=".62"><stop offset="0" stop-color="#090312"/><stop offset=".8" stop-color="#17092A"/><stop offset="1" stop-color="#321A55"/></radialGradient>
+<radialGradient id="gmHub" cx=".38" cy=".32" r=".75"><stop offset="0" stop-color="#ECE2FC"/><stop offset=".35" stop-color="#AB8DE0"/><stop offset=".75" stop-color="#5E389C"/><stop offset="1" stop-color="#311859"/></radialGradient>
+<radialGradient id="gmHubDim" cx=".38" cy=".32" r=".75"><stop offset="0" stop-color="#9C89B8"/><stop offset=".5" stop-color="#644888"/><stop offset="1" stop-color="#26153E"/></radialGradient>
 <radialGradient id="gmHubWarm" cx=".38" cy=".32" r=".75"><stop offset="0" stop-color="#FBE6CC"/><stop offset=".4" stop-color="#D9A266"/><stop offset=".8" stop-color="#8A5A28"/><stop offset="1" stop-color="#3B2610"/></radialGradient>
 <linearGradient id="gmLight" x1=".15" y1=".1" x2=".85" y2=".95"><stop offset="0" stop-color="#fff" stop-opacity=".16"/><stop offset=".45" stop-color="#fff" stop-opacity="0"/><stop offset=".7" stop-color="#000" stop-opacity=".08"/><stop offset="1" stop-color="#000" stop-opacity=".42"/></linearGradient>
-<linearGradient id="gmSide" x1="0" y1="0" x2="0" y2="1"><stop offset="0" stop-color="#0B1B31"/><stop offset=".6" stop-color="#173459"/><stop offset="1" stop-color="#2C5487"/></linearGradient><linearGradient id="gmSideDim" x1="0" y1="0" x2="0" y2="1"><stop offset="0" stop-color="#08121F"/><stop offset="1" stop-color="#1E3352"/></linearGradient><linearGradient id="gmSideWarm" x1="0" y1="0" x2="0" y2="1"><stop offset="0" stop-color="#2A1A0B"/><stop offset=".6" stop-color="#5A3816"/><stop offset="1" stop-color="#9A6430"/></linearGradient><radialGradient id="gmShadow" cx=".5" cy=".5" r=".5"><stop offset=".55" stop-color="#000" stop-opacity=".55"/><stop offset="1" stop-color="#000" stop-opacity="0"/></radialGradient>
+<linearGradient id="gmSide" x1="0" y1="0" x2="0" y2="1"><stop offset="0" stop-color="#1A0A32"/><stop offset=".6" stop-color="#31155B"/><stop offset="1" stop-color="#4F2A89"/></linearGradient><linearGradient id="gmSideDim" x1="0" y1="0" x2="0" y2="1"><stop offset="0" stop-color="#110720"/><stop offset="1" stop-color="#341D53"/></linearGradient><linearGradient id="gmSideWarm" x1="0" y1="0" x2="0" y2="1"><stop offset="0" stop-color="#2A1A0B"/><stop offset=".6" stop-color="#5A3816"/><stop offset="1" stop-color="#9A6430"/></linearGradient><radialGradient id="gmShadow" cx=".5" cy=".5" r=".5"><stop offset=".55" stop-color="#000" stop-opacity=".55"/><stop offset="1" stop-color="#000" stop-opacity="0"/></radialGradient>
 </defs>`;
 const MOB=matchMedia('(max-width:700px)').matches;
 const D=12;
@@ -1007,7 +1021,7 @@ G.forEach((g,i)=>{
   mover.appendChild(ns('circle',{class:'gear-light',cx:g.x,cy:g.y,r:root-1}));
   const gr=root-12,a1=Math.PI*1.08,a2=Math.PI*1.42;
   mover.appendChild(ns('path',{class:'gear-glint',d:`M${(g.x+Math.cos(a1)*gr).toFixed(1)} ${(g.y+Math.sin(a1)*gr).toFixed(1)}A${gr} ${gr} 0 0 1 ${(g.x+Math.cos(a2)*gr).toFixed(1)} ${(g.y+Math.sin(a2)*gr).toFixed(1)}`}));
-  const dot=document.createElementNS(svgNS,'circle');dot.setAttribute('cx',g.x);dot.setAttribute('cy',g.y);dot.setAttribute('r',4);dot.setAttribute('fill',i===STUCK?'#C98A4B':'#7FB0EA');mover.appendChild(dot);
+  const dot=document.createElementNS(svgNS,'circle');dot.setAttribute('cx',g.x);dot.setAttribute('cy',g.y);dot.setAttribute('r',4);dot.setAttribute('fill',i===STUCK?'#C98A4B':'#A67CED');mover.appendChild(dot);
   const lab=document.createElementNS(svgNS,'text');lab.setAttribute('class','glabel'+(i>STUCK?' dim':'')+(i===STUCK?' warm':''));
   const below=MOB?(i%2===0):(g.y>=G[Math.max(0,i-1)].y||i===0);
   lab.setAttribute('x',g.x);lab.setAttribute('y',below?g.y+g.R+34:g.y-g.R-16);lab.textContent=g.l;
@@ -1091,7 +1105,7 @@ if(FINE&&!REDUCE)document.querySelectorAll('.magnetic').forEach(el=>{
 });
 /* ---------- tilt cards ---------- */
 if(FINE&&!REDUCE)document.querySelectorAll('.tilt').forEach(el=>{
-  el.addEventListener('mousemove',e=>{const r=el.getBoundingClientRect();const x=(e.clientX-r.left)/r.width-.5,y=(e.clientY-r.top)/r.height-.5;el.style.transform=`rotateY(${x*8}deg) rotateX(${-y*8}deg) translateZ(0)`;el.style.boxShadow=`${-x*30}px ${30-y*20}px 60px -30px rgba(14,30,52,.4)`});
+  el.addEventListener('mousemove',e=>{const r=el.getBoundingClientRect();const x=(e.clientX-r.left)/r.width-.5,y=(e.clientY-r.top)/r.height-.5;el.style.transform=`rotateY(${x*8}deg) rotateX(${-y*8}deg) translateZ(0)`;el.style.boxShadow=`${-x*30}px ${30-y*20}px 60px -30px rgba(29,13,53,.4)`});
   el.addEventListener('mouseleave',()=>{el.style.transform='';el.style.boxShadow=''});
 });
 
